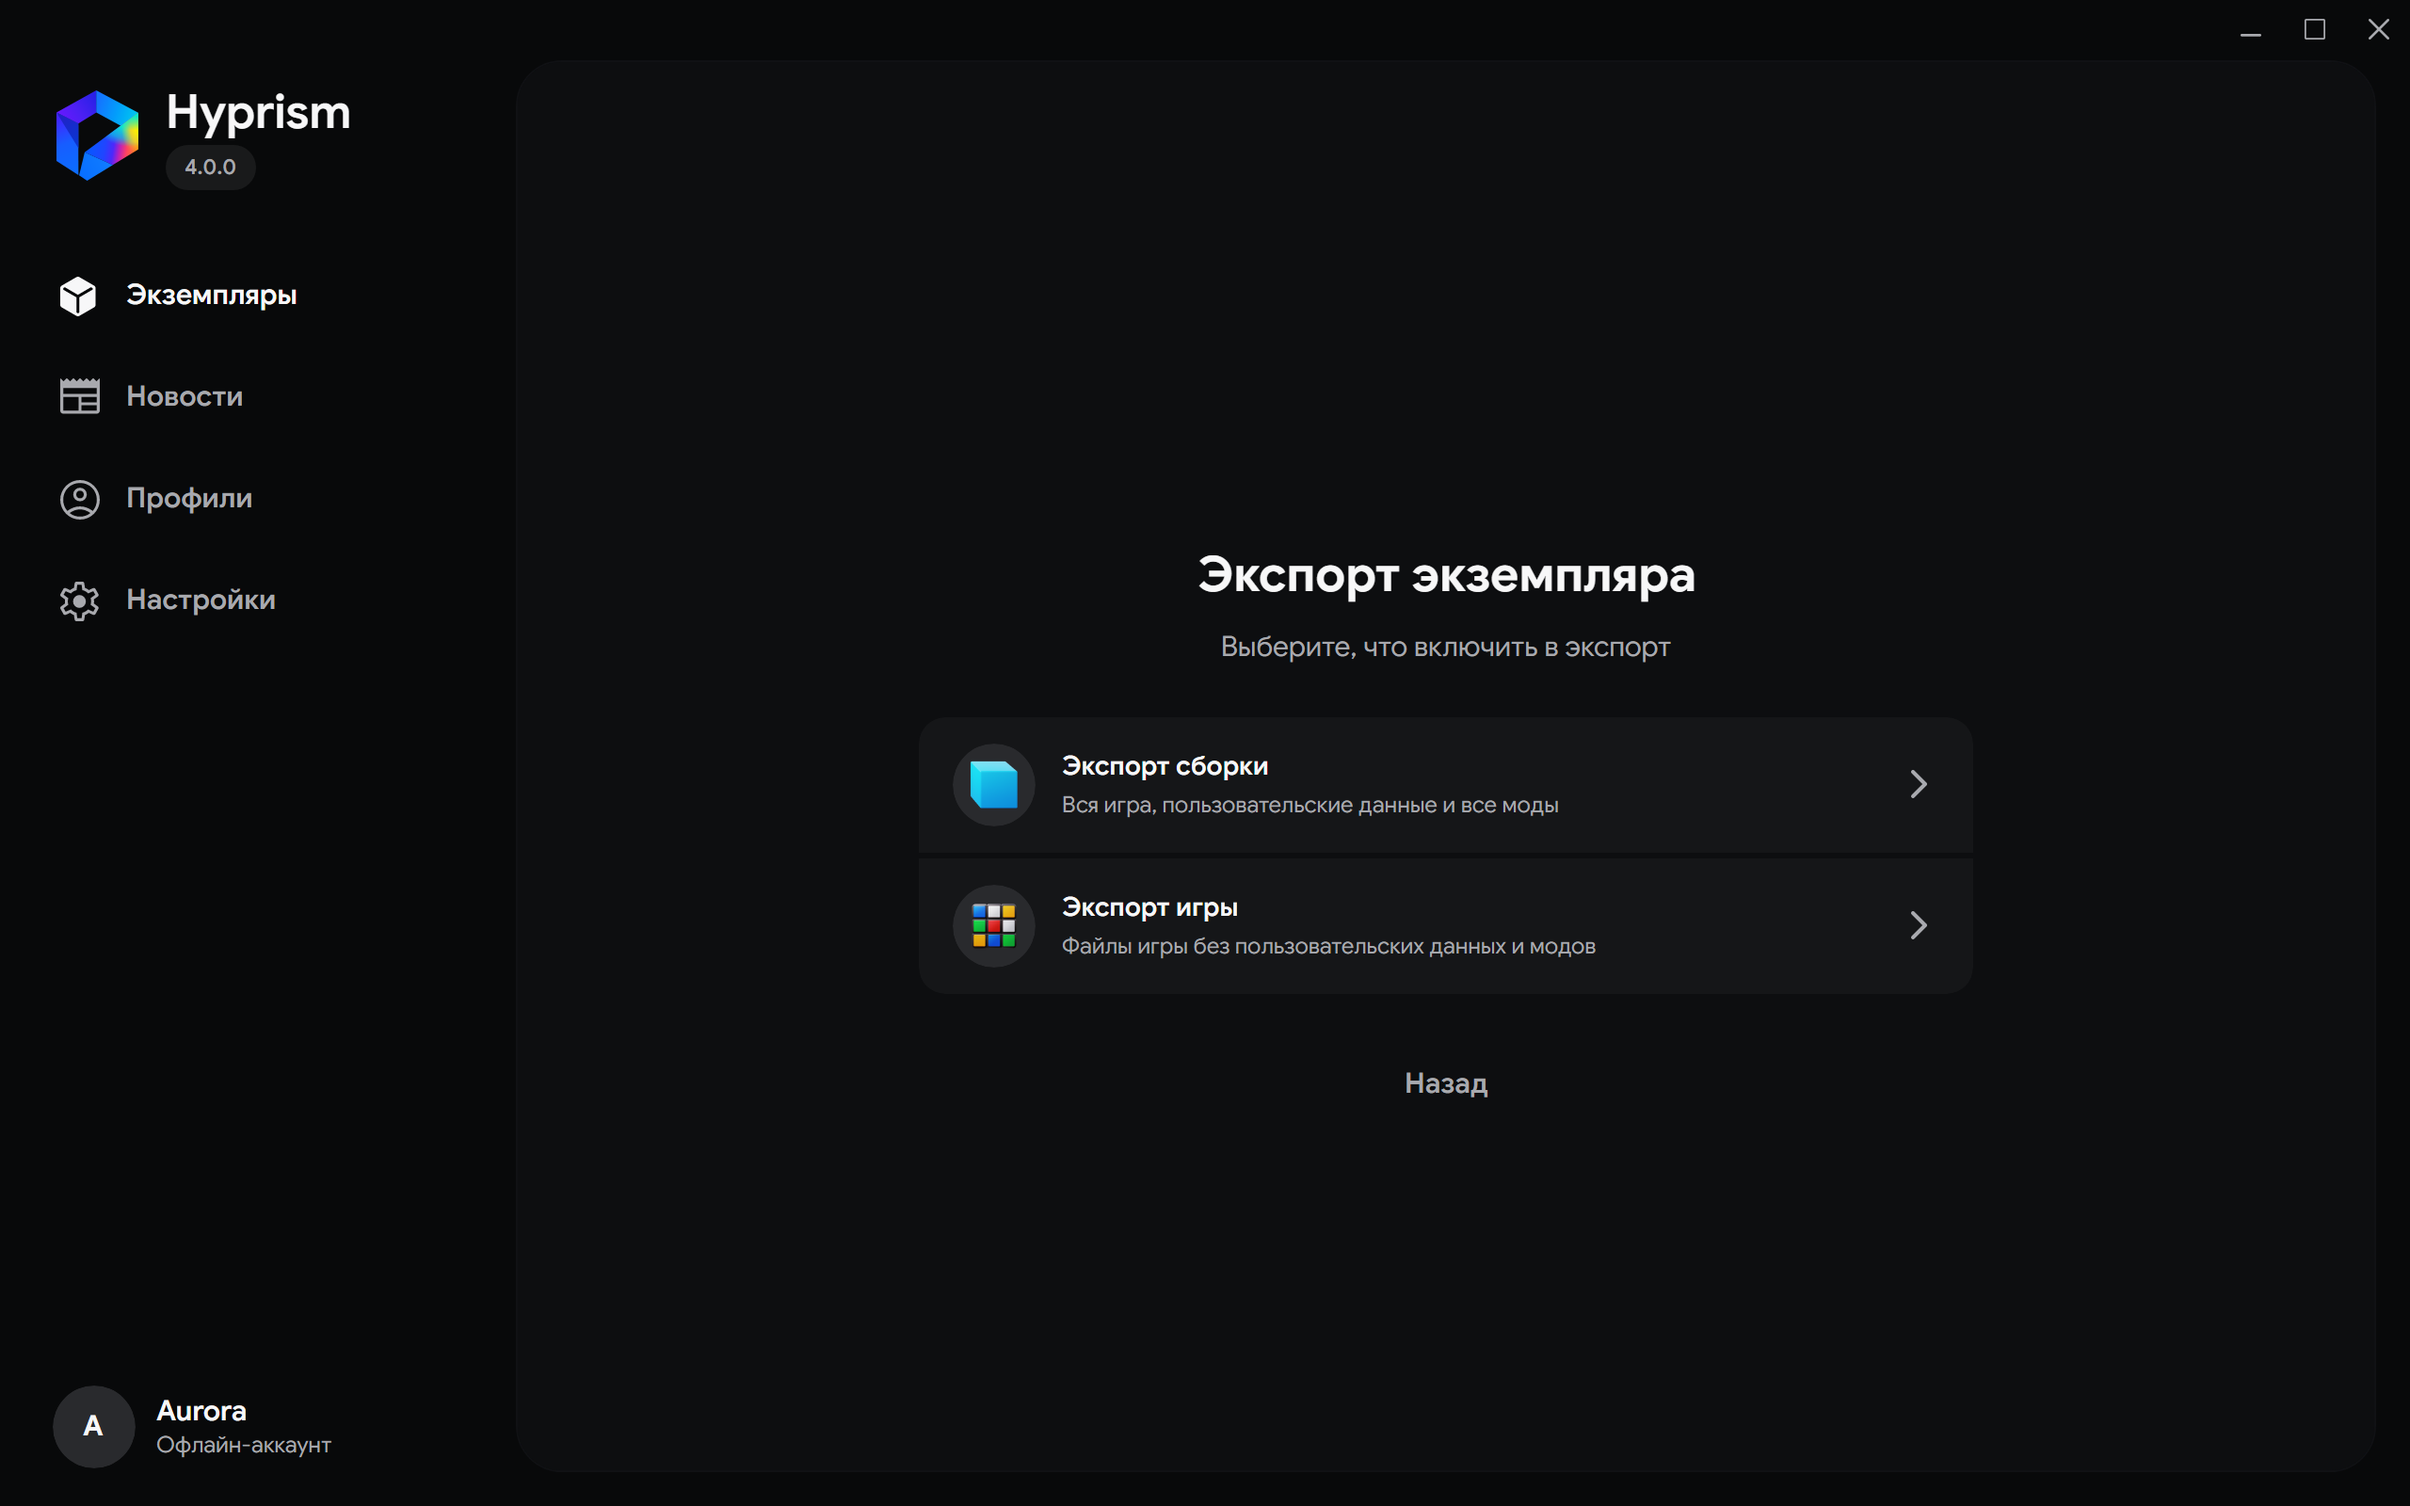
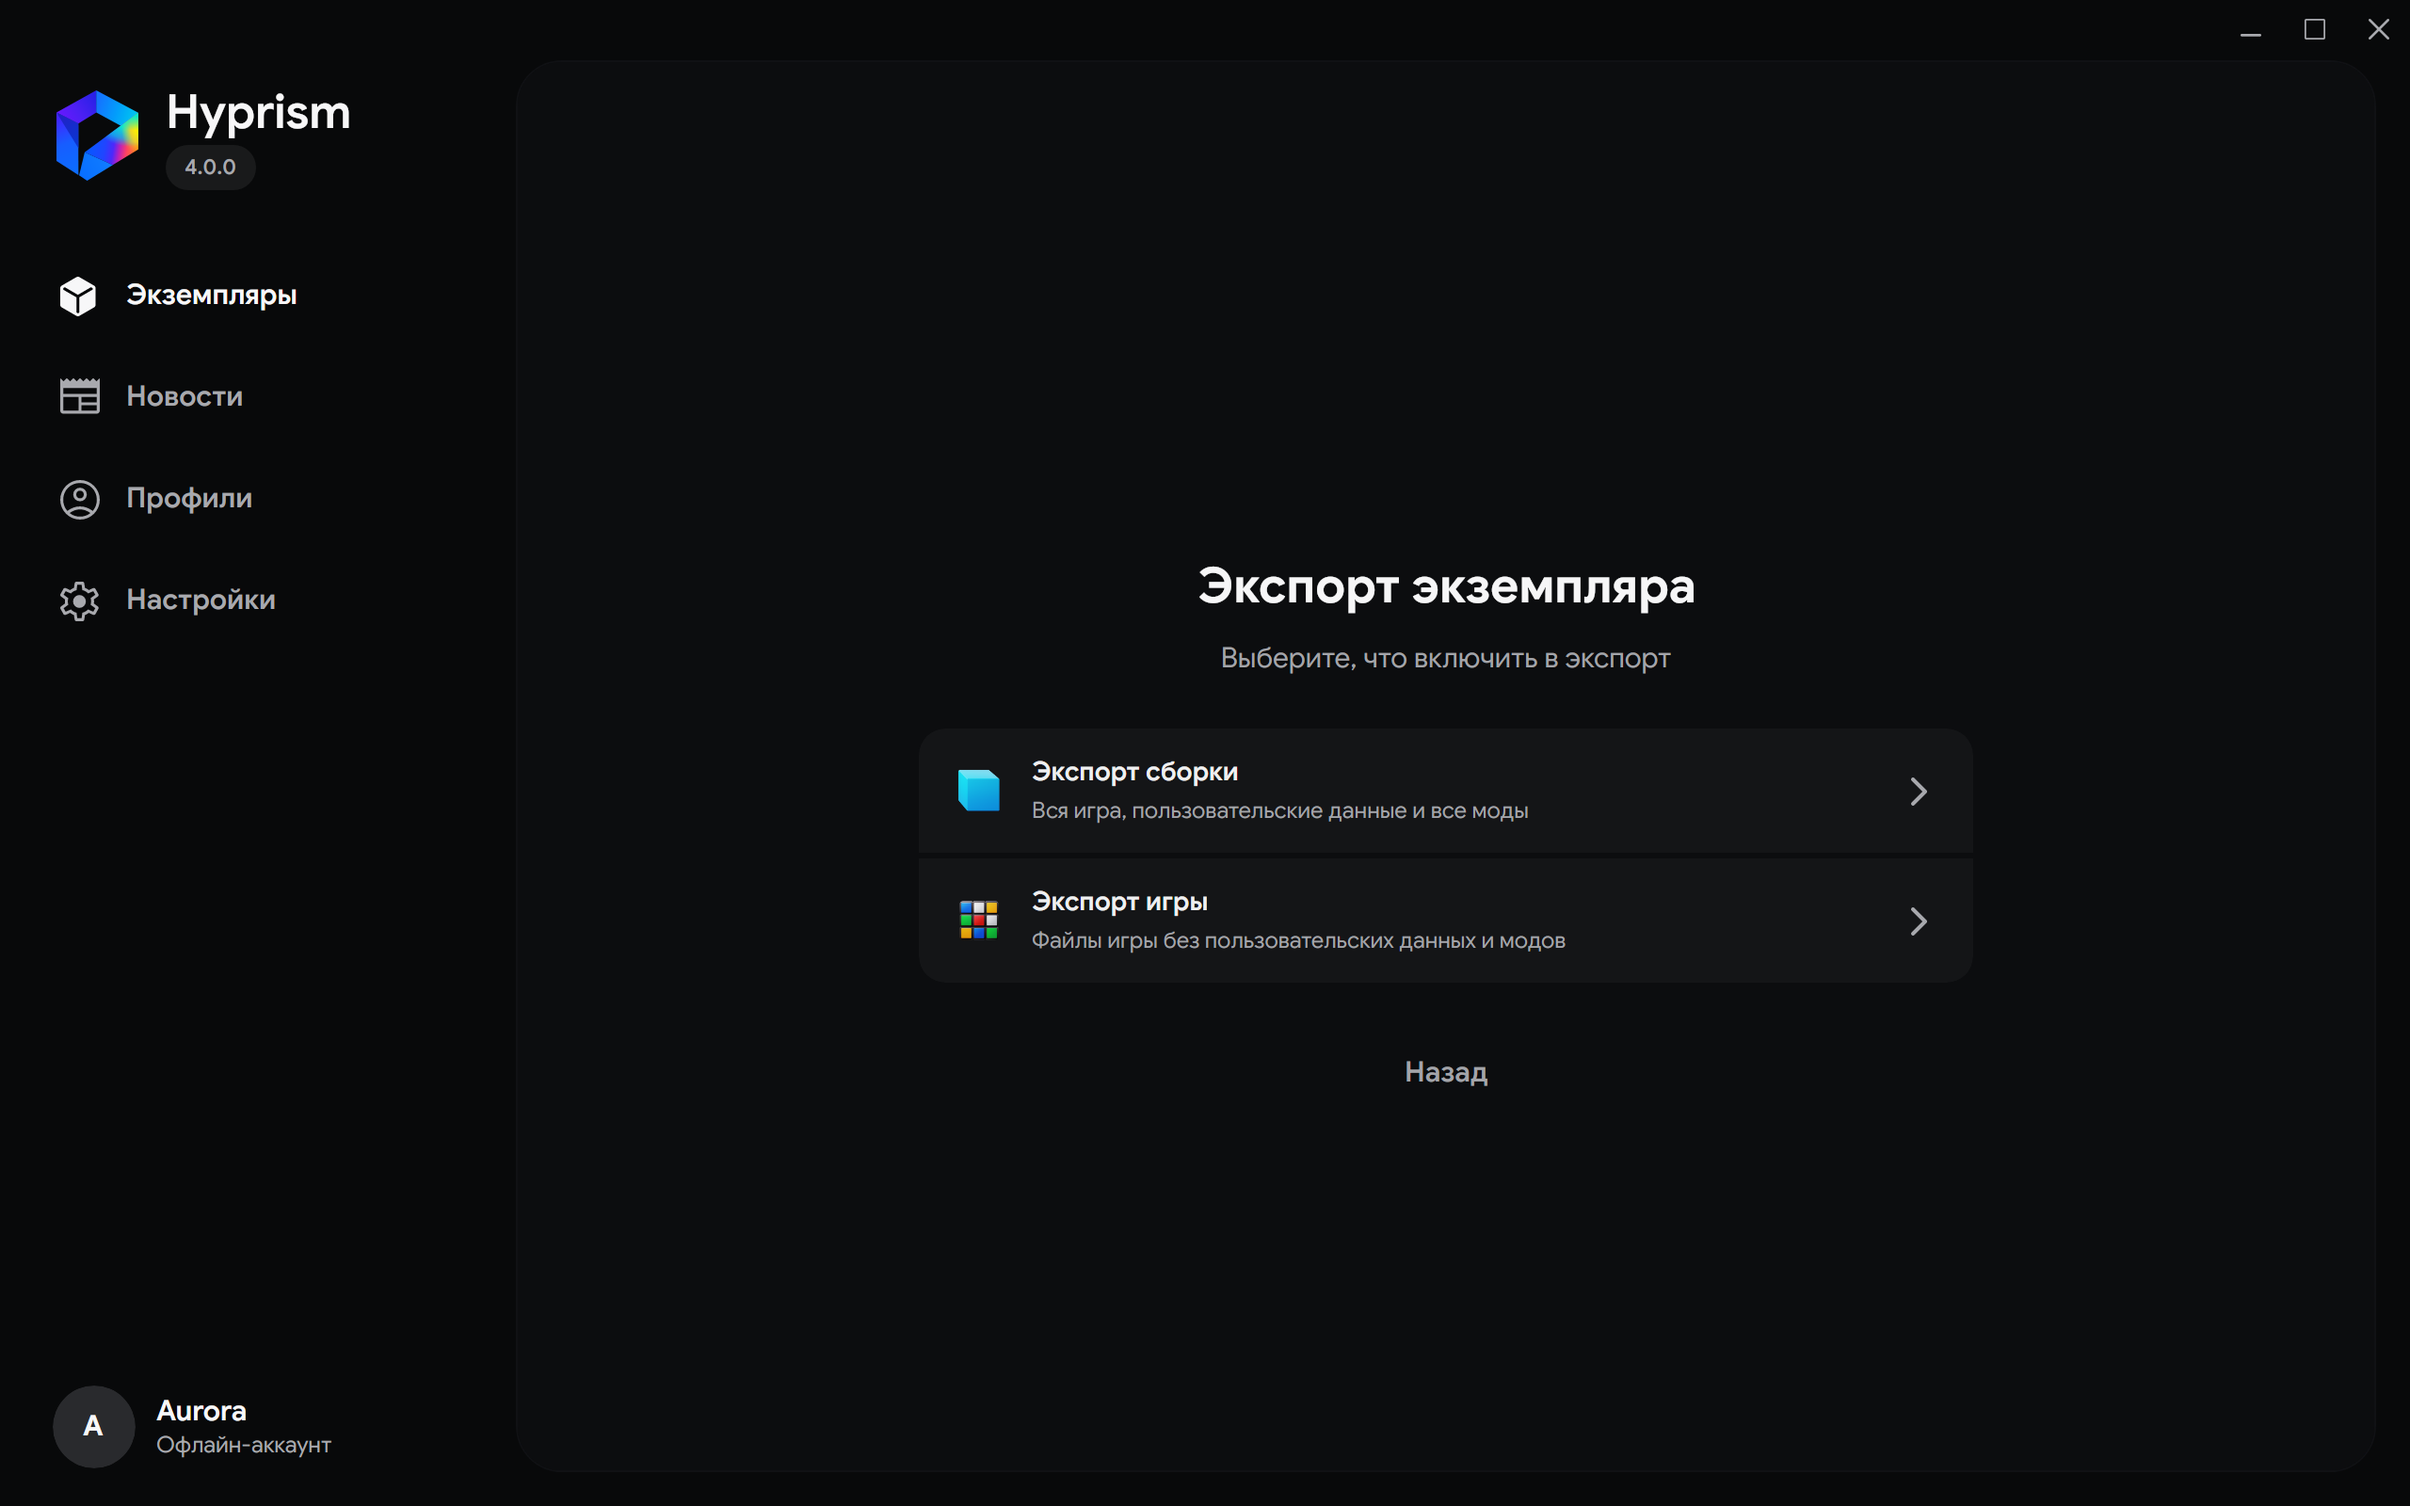
Feat: Enhance wizard styling

diff --git a/Sources/Hyprism.Desktop/UI/Controls/Interaction/WizardHost.cs b/Sources/Hyprism.Desktop/UI/Controls/Interaction/WizardHost.cs
@@ -6,6 +6,7 @@ using Avalonia.Controls;
 using Avalonia.Input;
 using Avalonia.Interactivity;
 using Avalonia.Labs.Lottie;
+using Avalonia.Media;
 using Avalonia.Threading;
 using Avalonia.VisualTree;
 
@@ -240,9 +241,16 @@ public sealed class WizardHost
     {
         if (isOpen)
         {
+            if (!_isClosing && !_isStepTransitioning && _wizard.IsVisible &&
+                _wizard.IsHitTestVisible && _wizard.Opacity >= 0.99 &&
+                _wizard.RenderTransform is TranslateTransform { X: >= -0.5 and <= 0.5 })
+                return;
+
             _isClosing = false;
             _closeCompletion = null;
-            ShowWizardImmediately();
+            NormalizeSteps();
+            SelectActiveStepAnimation(preserveCurrentFrame: true);
+            _transition.ShowWizardImmediately();
         }
         else
         {
@@ -380,14 +388,15 @@ public sealed class WizardHost
         }
     }
 
-    private void SelectActiveStepAnimation()
+    private void SelectActiveStepAnimation(bool preserveCurrentFrame = false)
     {
         if (_revealIcon is null)
             return;
 
         var activeStep = _steps.FirstOrDefault(step => step.IsVisible);
         if (activeStep is not null &&
-            _stepAnimationPaths.TryGetValue(activeStep, out var animationPath))
+            _stepAnimationPaths.TryGetValue(activeStep, out var animationPath) &&
+            (!preserveCurrentFrame || _revealIcon.AnimationPath != animationPath))
         {
             _revealIcon.ShowInitialFrame(animationPath);
         }
